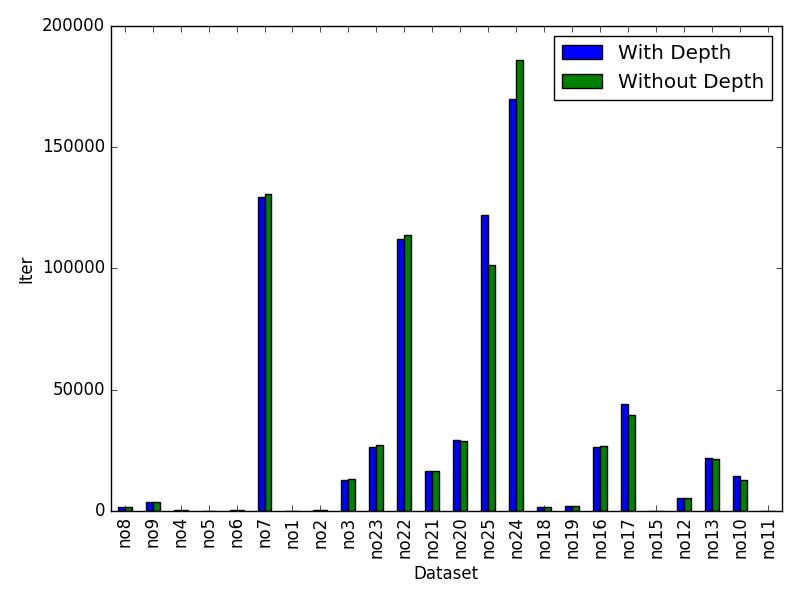
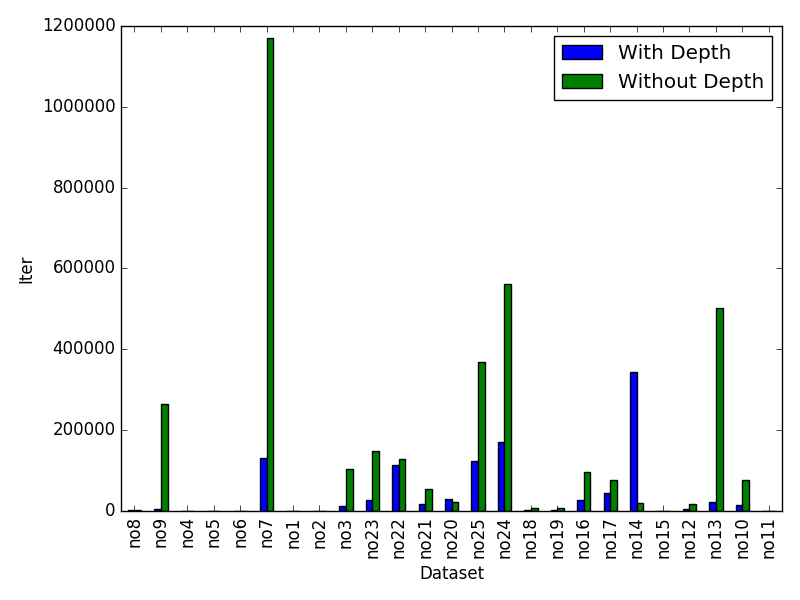
analysis changes

Changed region(s): [[0.0312, 0.03, 0.9375, 0.99]]

diff --git a/analysis.py b/analysis.py
@@ -16,7 +16,7 @@ import matplotlib.pyplot as plt
 
 res = {}
 
-directory1 = "./experiment_results"
+directory1 = "./experiment_times"
 directory2 = "./experiment_original"
 
 k=1
@@ -33,12 +33,11 @@ def get_data(directory):
             # print(name)
             file_results = []
             with open(os.path.join(directory, filename), 'r') as f: # open in readonly mode
-                for i in range(0, len(f)):
-                # for line in f:
-                    line = f[i]
+                last_line = ""
+                for line in f:
                     if line[:5] == "Level":
                         # print(line.split()[1])
-                        file_results.append(f[i-1])
+                        file_results.append(last_line.strip())
                         level = line.split()[1]
                         file_results.append(int(level))
                     elif line[:4] == "Iter":
@@ -48,6 +47,7 @@ def get_data(directory):
                     elif line[:4] == "Time":
                         tme = line.split()[2]
                         file_results.append(float(tme))
+                    last_line = line
                 if len(file_results) != 0:
                     res[name] = file_results
                         # print(line.split()[2])
@@ -60,7 +60,7 @@ def get_data(directory):
 res = get_data(directory1)
 df = pd.DataFrame.from_dict(res, orient='index', columns=['Regex','Level', 'Iter', 'Time'])
 
-# print(df)
+print(df)
 index = df.index
 # print(list(index))
 times1 = df['Time']
@@ -69,19 +69,19 @@ times1 = df['Time']
 print(times1)
 
 res2 = get_data(directory2)
-df2 = pd.DataFrame.from_dict(res, orient='index', columns=['Regex','Level', 'Iter', 'Time'])
+df2 = pd.DataFrame.from_dict(res2, orient='index', columns=['Regex','Level', 'Iter', 'Time'])
 # df = df.rename(index=['Level', 'Iter', 'Time'])
-# print(df2)
+print(df2)
 
 times2 = df2['Time']
 
-dfplot = pd.DataFrame({"Without Depth":times1,"With Depth":times2})
+dfplot = pd.DataFrame({"Penalize Product":times1,"Original Cost":times2})
 ax = dfplot.plot.bar()
 ax.set_xlabel("Dataset")
 ax.set_ylabel("Time")
 
 plt.tight_layout()
-plt.savefig("time.png")
+plt.savefig("time_times.png")
 
 
 dfplot = pd.DataFrame({"Without Depth":df['Iter'],"With Depth":df2['Iter']})
@@ -90,7 +90,7 @@ ax.set_xlabel("Dataset")
 ax.set_ylabel("Iter")
 
 plt.tight_layout()
-plt.savefig("iter.png")
+plt.savefig("iter_times.png")
 
 
 
